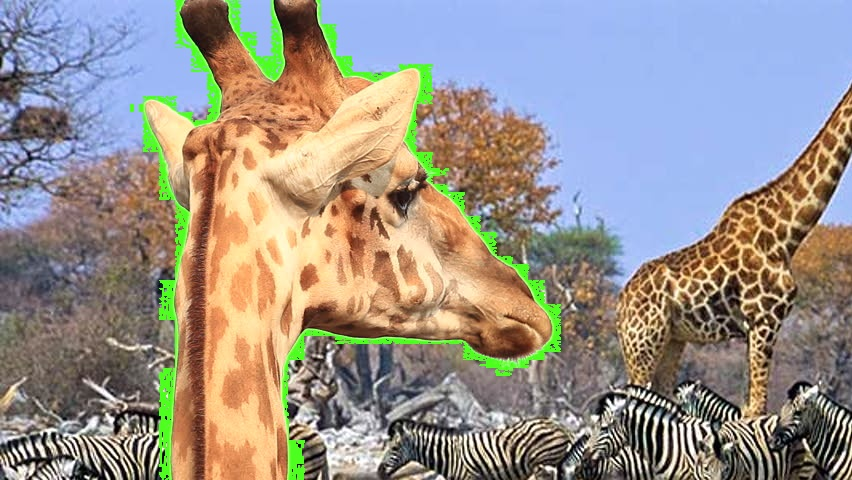
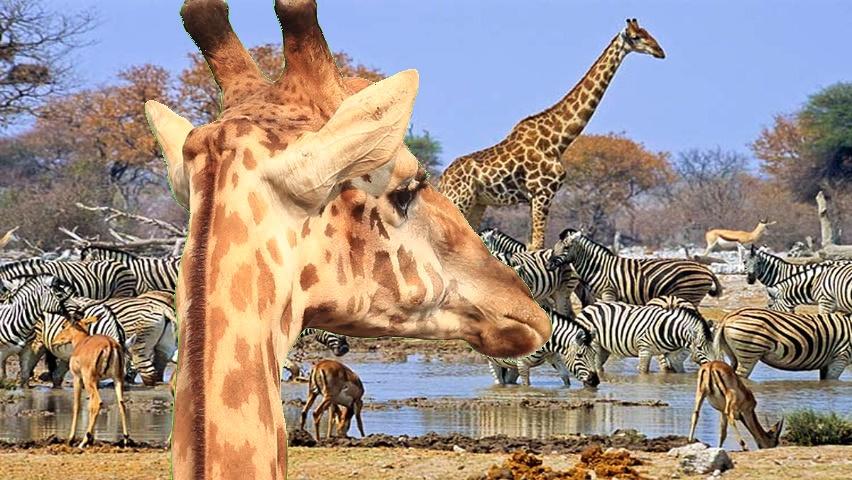
better than photoshop

diff --git a/ImagePlayer/app8.py b/ImagePlayer/app8.py
@@ -1,4 +1,5 @@
 import cv2
+import numpy as np
 
 foreground = cv2.imread('./giraffe.jpeg')
 background = cv2.imread('./safari.jpeg')
@@ -7,13 +8,14 @@ width = foreground.shape[1]
 height = foreground.shape[0]
 
 # print(foreground(40, 40))
+resized_bg = cv2.resize(background, (width, height))
 
 for i in range(width):
     for j in range(height):
         pixel = foreground[j,i]
 
-        if list(pixel) == [28, 255, 76]:
-            foreground[j,i] = background[j,i]
+        if np.any(pixel == [1, 255, 0]) :
+            foreground[j,i] = resized_bg[j,i]
 
 
 cv2.imwrite('op.jpeg', foreground)
